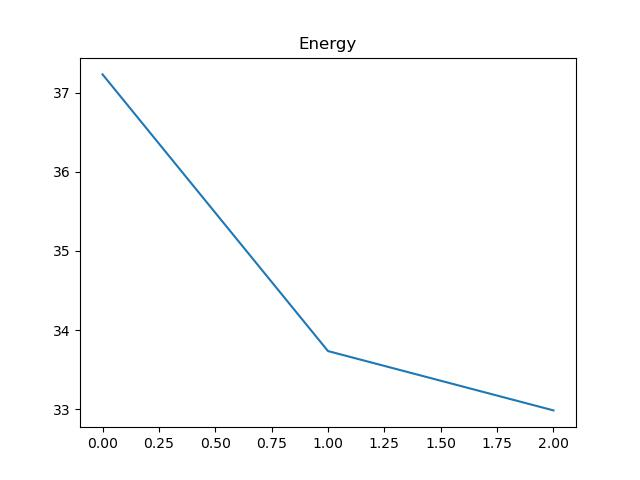
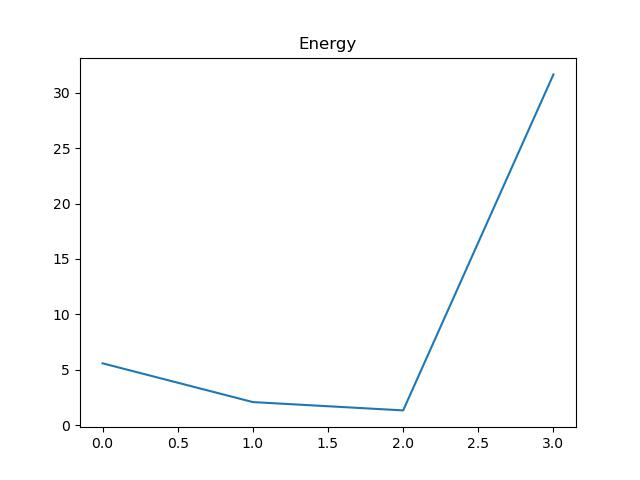
test

diff --git a/demo_control_polycopie.py b/demo_control_polycopie.py
@@ -322,7 +322,7 @@ if __name__ == '__main__':
     print('Chi sum:', numpy.sum(numpy.sum(chin)))
     # -- plot chi, u, and energy
 
-    energy += [np.real(compute_objective_function(domain_omega, u, spacestep, mu1, V_0))]
+    energy = np.append(energy,np.real(compute_objective_function(domain_omega, u, spacestep, mu1, V_0)))
     postprocessing._plot_uncontroled_solution(u0, chi0)
     postprocessing._plot_controled_solution(un, chin)
     err = un - u0
